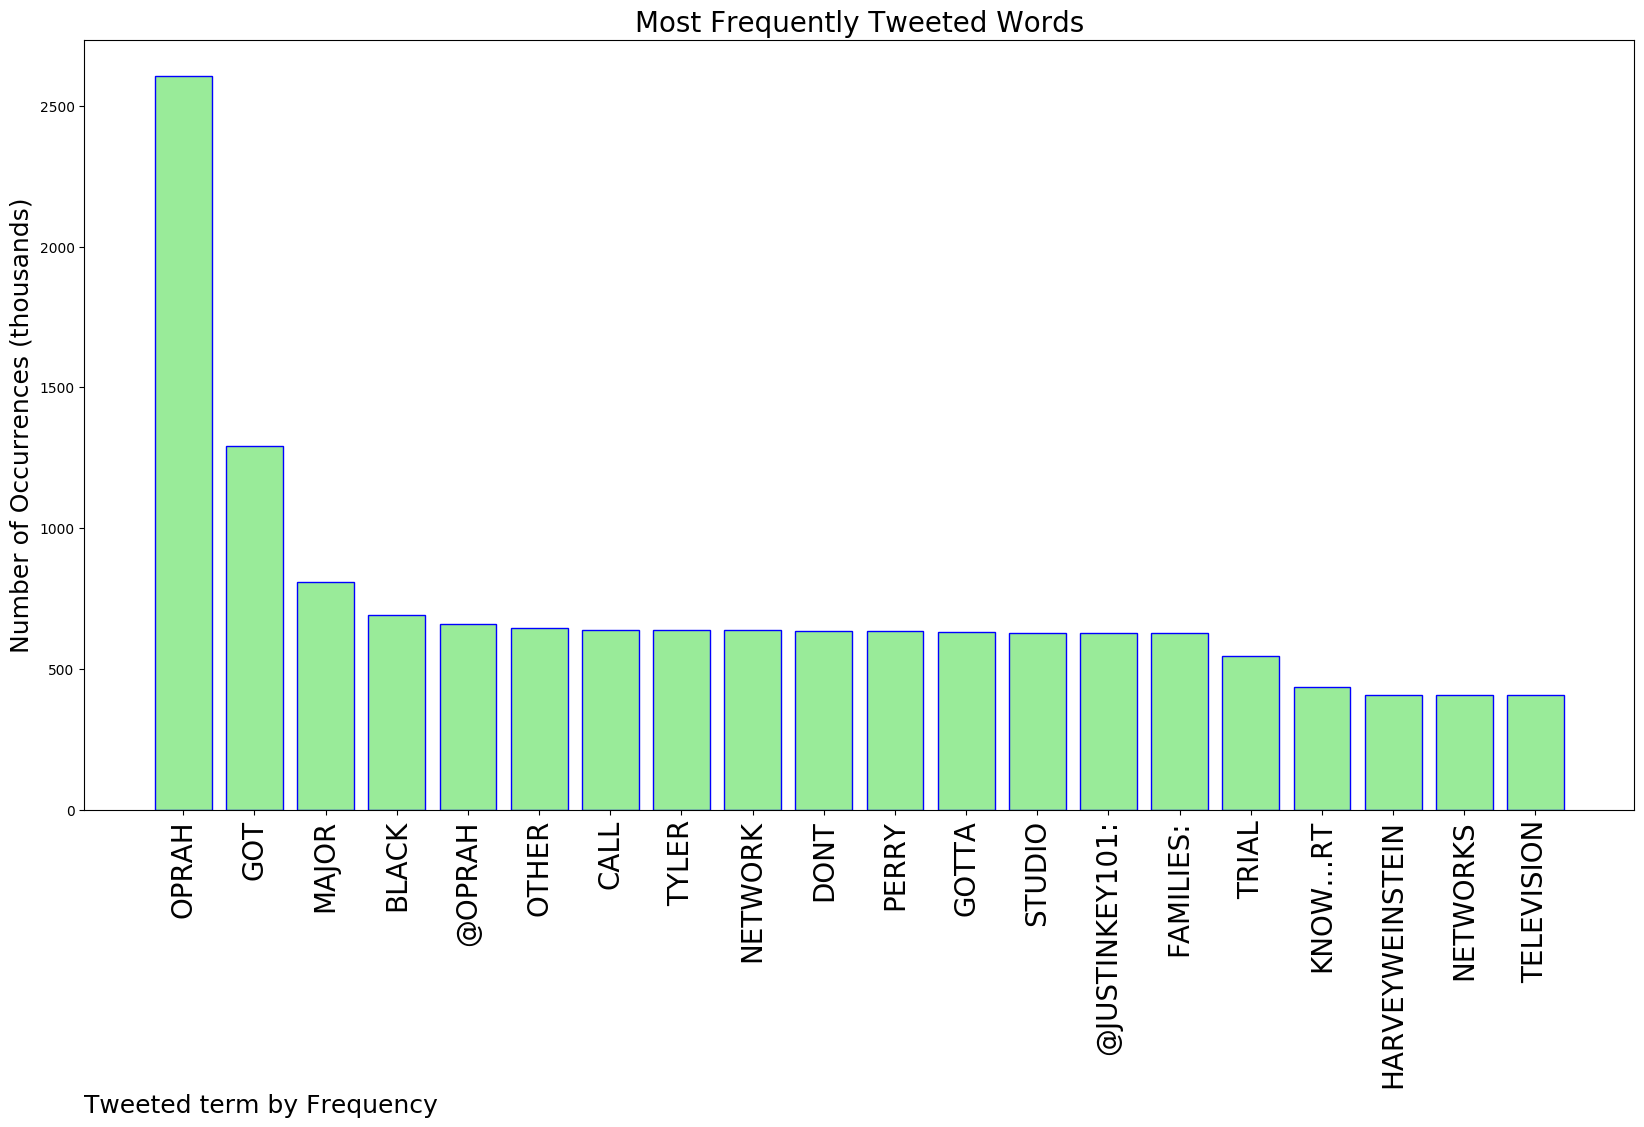
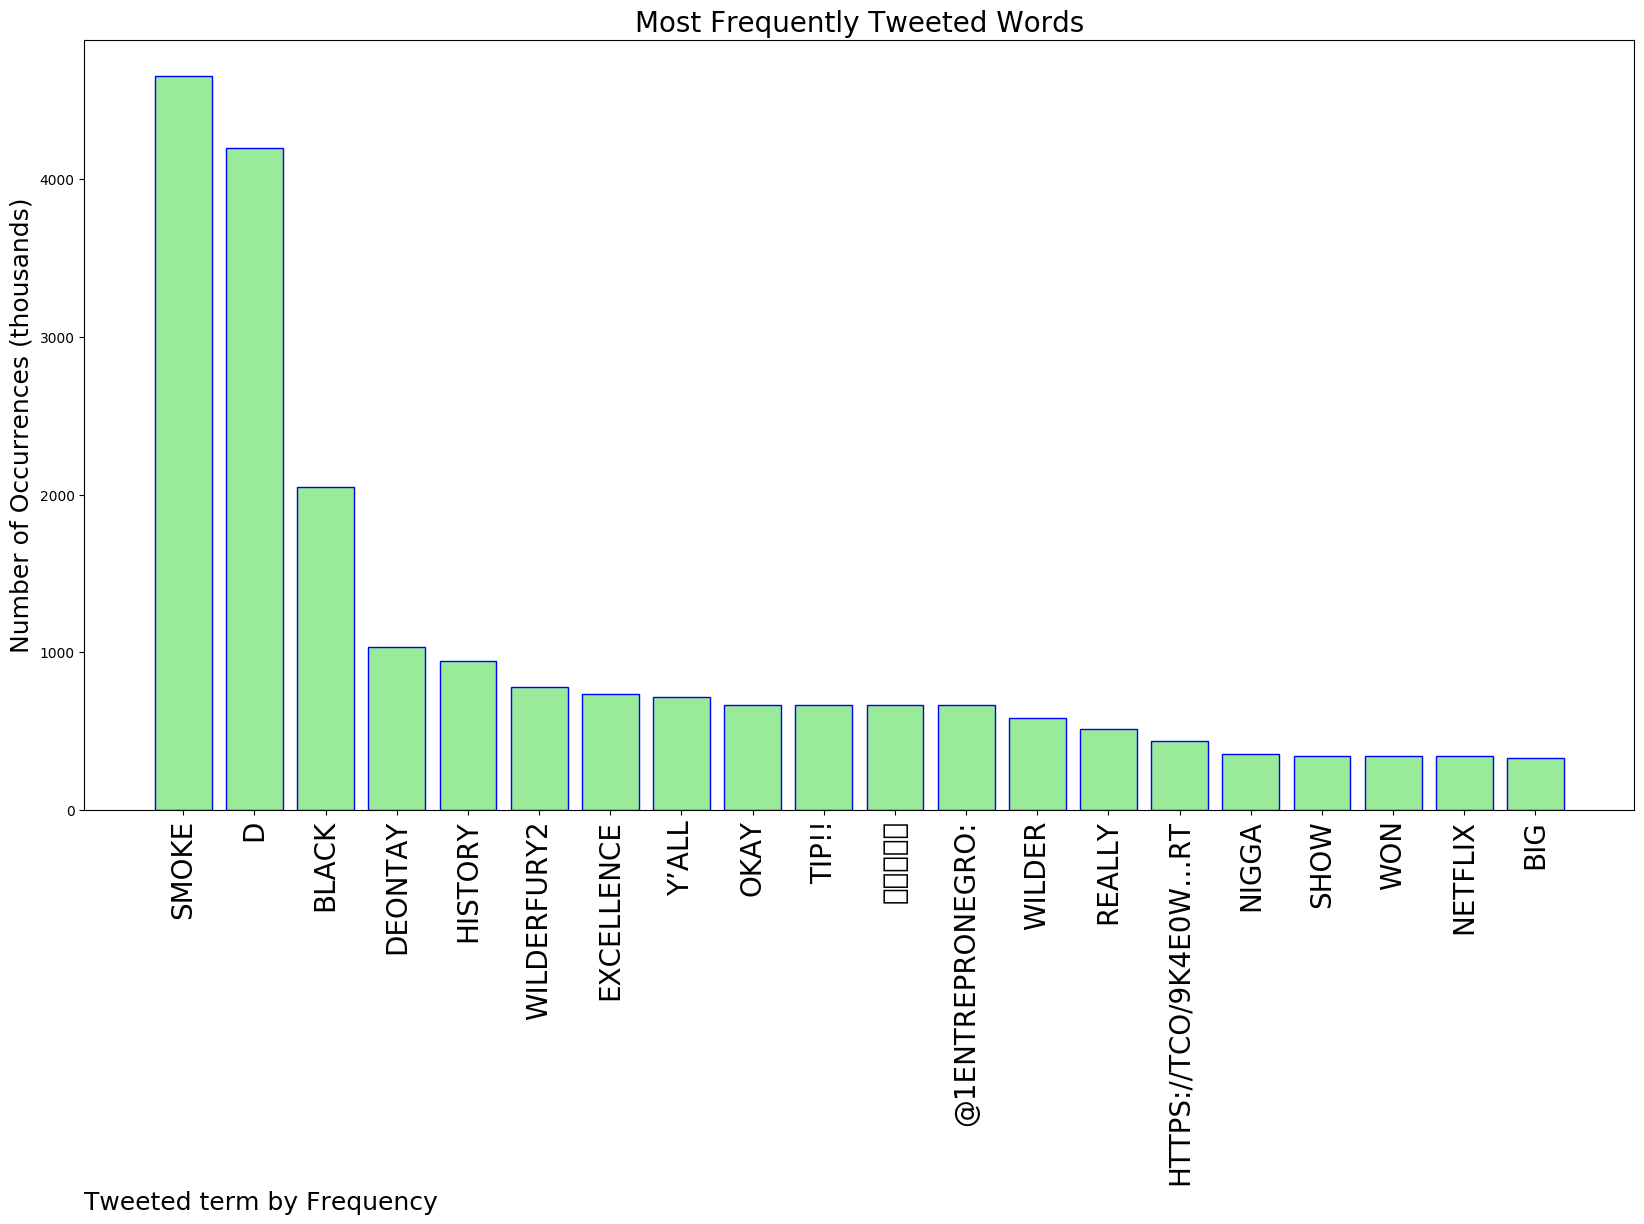
Updating with latest report

diff --git a/README.md b/README.md
@@ -1,17 +1,12 @@
-{::options parse_block_html="true" /}
 # MURCHIE85 TWITTER PROCESSING 
-&#x1F34E; **TOPIC = "Oprah"**
+&#x1F34E; **TOPIC = "D Smoke"**
 
 ## AUTOMATED RESEARCH SUMMARY
 
 ![image](https://marketingplatform.google.com/about/static/images/gmp/analytics-smb-benefit.jpg)
 <br></br>
-<div class="alert alert-success"><b> This repo is for pulling metrics on a given keyword or hashtag and performs a series of reporting and analysis.</b></div>
+<div class="alert alert-block alert-danger"><b> This repo is for pulling metrics on a given keyword or hashtag and performs a series of reporting and analysis.</b></div>
 
-! This is an info message.
-!v This is a success message.
-!! Consider this a warning.
-!x This is an error message.
 
 
 ![image](TWEETS.png)
@@ -20,19 +15,29 @@
 
 |                **Sample-Tweets**        |
 | :-------------: |
-| <div class="alert alert-block alert-warning">RT @squirrelslapper: Give away when i have 10 consecutive viewers! YOU GET A PRIZE, YOU GET A PRIZE.  https://t.co/2PxkRS36eO @MixerRetweet…</div> <div class="alert alert-block alert-success">RT @TalbertSwan: If #HarveyWeinstein were Black:Major television networks would be covering the trialMajor newspaper would have oped’s…</div> <div class="alert alert-block alert-info">@PreetBharara Preset and Oprah!  Perfect couple!</div> |
-The most popular user is: **DorkyEvil**
-<div class="alert alert-block alert-danger"> RT @HeidiStevens13: When I saw Oprah interview Michelle Obama, Oprah asked how Michelle got over feeling intimidated sitting at big tables…</div>
+| <div class="alert alert-block alert-warning">RT @rapcds: Deontay Wilder had D Smoke, but couldn’t handle THE SMOKE https://t.co/z0TMg44RMo</div> <div class="alert alert-block alert-success">@ComplexSports Yoh D Smoke Rhythm and Flow winner opening for Deontay wilder who just lost to Tyson https://t.co/EoHq9BISGc Damned</div> <div class="alert alert-block alert-info">RT @1EntreProNegro: Okay Deontay and D Smoke I see y’all on the black history black excellence tip!! 🔥🔥🔥🔥🔥 #WilderFury2 https://t.co/9k4E0W…</div> |
+The most popular user is: **d_efkk**
+<div class="alert alert-block alert-danger"> RT @HotFreestyle: Rest in Peace 🙏🏽
+
+- Pop Smoke
+- Kobe Bryant
+- Juice WRLD
+- Mac Miller
+- Nipsey
+- Fredo Santana
+- XXXTentacion
+- Peep
+- Pr…</div>
 
 ## RELATED METRICS<br>
 | Metric | Value |
 | ------------- | ------------- |
-| #1 Most tweeted to  | **Oprah** |
-| #2 Most tweeted to  | **JustinKey101** |
-| #3 Most tweeted to  | **TalbertSwan** |
-| NewProfiles (less than 10 days) | 1.12%  |
-| Tweeters with < 10 followers  | 4.7%|
-| Tweeters with > 1000000 followers  | 0.12%  |
+| #1 Most tweeted to  | **1EntreProNegro** |
+| #2 Most tweeted to  | **JuiceMan3x** |
+| #3 Most tweeted to  | **__nae_nae** |
+| NewProfiles (less than 10 days) | 0.34%  |
+| Tweeters with < 10 followers  | 1.94%|
+| Tweeters with > 1000000 followers  | 0.02%  |
 
 
 
@@ -41,28 +46,38 @@ The most popular user is: **DorkyEvil**
 
 | Popularity Rank  | Term |
 | ------------- | ------------- |
-| first  | **OPRAH**  |
-| second  | **GOT**  |
-| third  | **MAJOR** |
-| fourth  | **BLACK**  |
-| fifth  | **@OPRAH**  |
+| first  | **SMOKE**  |
+| second  | **D**  |
+| third  | **BLACK** |
+| fourth  | **DEONTAY**  |
+| fifth  | **HISTORY**  |
 
 
 ## Twitter Bio Analysis![image](BIO.png)
 ### SENTIMENT ANALYSIS
 ![image](sentiment.png)
-VIEWS WERE : **SUBJECTIVE**  (33.33%) & **NEGATIVELY-SUBJECTIVE** (20.0%) **OBJECTIVE** (46.67%)
+VIEWS WERE : **SUBJECTIVE**  (66.67%) & **NEGATIVELY-SUBJECTIVE** (20.0%) **OBJECTIVE** (13.33%)
 
 ### TWEET SAMPLE 
 Random value picked from array: 
 
-<div class="alert alert-block alert-info">RT @squirrelslapper: Give away when i have 10 consecutive viewers! YOU GET A PRIZE, YOU GET A PRIZE.  https://t.co/2PxkRS36eO @MixerRetweet…</div>
+<div class="alert alert-block alert-info">RT @rapcds: Deontay Wilder had D Smoke, but couldn’t handle THE SMOKE https://t.co/z0TMg44RMo</div>
 
 ### MOST RETWEETED 
 
-The most retweeted user is: **DorkyEvil**
+The most retweeted user is: **d_efkk**
 
-<div class="alert alert-block alert-danger"> RT @HeidiStevens13: When I saw Oprah interview Michelle Obama, Oprah asked how Michelle got over feeling intimidated sitting at big tables…</div>
+<div class="alert alert-block alert-danger"> RT @HotFreestyle: Rest in Peace 🙏🏽
+
+- Pop Smoke
+- Kobe Bryant
+- Juice WRLD
+- Mac Miller
+- Nipsey
+- Fredo Santana
+- XXXTentacion
+- Peep
+- Pr…</div>
 
 ### CONCLUSION & EXTERNAL ANALYSIS
 
